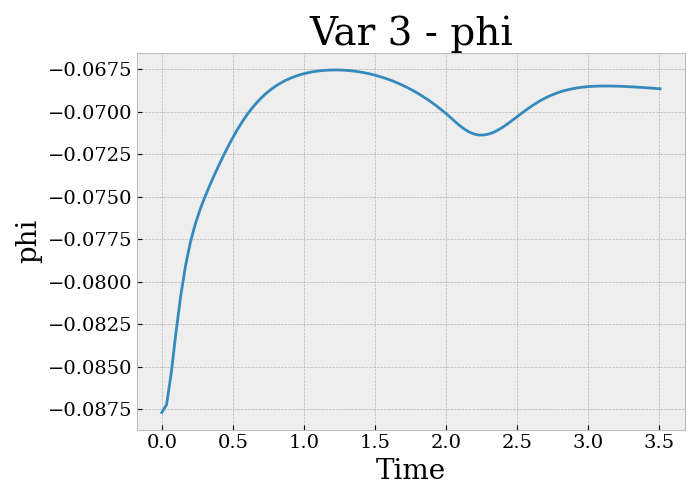
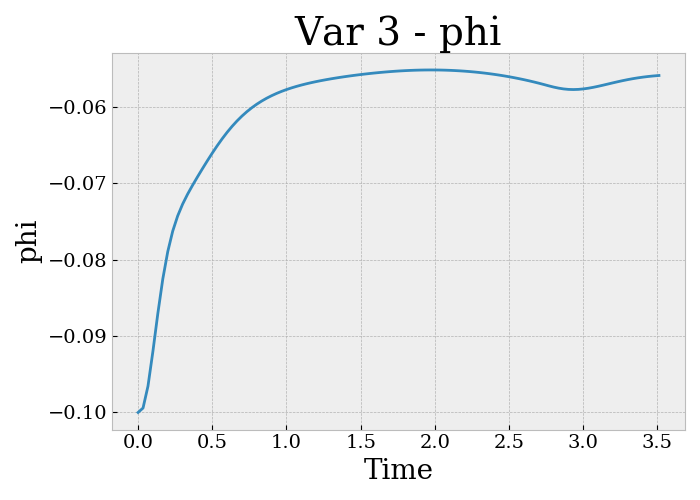
added files and generate script

diff --git a/gcas/spec_gcas.py b/gcas/spec_gcas.py
@@ -77,7 +77,7 @@ def main():
     scaling_dict = get_scaling()
 
     #trange = (0, 106 * 1/30)
-    trange = (105 * 1/30, 105 * 1/30 + 1e-4)
+    trange = (0, 105 * 1/30)
 
     if False:
 
@@ -85,7 +85,7 @@ def main():
         alpha = deg2rad(2.1215)
         beta = 0
 
-        phi = -pi/8           # Roll angle from wings level (rad)
+        phi = -0.5996 #-pi/8           # Roll angle from wings level (rad)
         #theta = (-math.pi/2)*0.3         # Pitch angle from nose level (rad)
         theta = 0         # Pitch angle from nose level (rad)
         psi = 0   # Yaw angle from North (rad)
@@ -94,7 +94,7 @@ def main():
         Q = 0
         R = 0
 
-        Pn  = 0
+        Pn = 0
         Pe = 0
 
         alt = 1200
@@ -105,19 +105,25 @@ def main():
         tuples_list = [(x, x) for x in pt] + [trange]
     else:
         # yue paper init set
-        tuples_list = [(560.0040, 599.9999),
-            (0.0750, 0.1000),
+        tuples_list = [(560.0040, 599.9999), # vt
+            (0.0750, 0.1000), # alpha
+            (-0.0100, 0.0100), # beta
+            (-0.1000, -0.0750), # phi (roll angle)
+                       
+            #(-0.9996, -0.5000), # theta!
+            (-0.88, 0), # theta!
+                       
             (-0.0100, 0.0100),
-            (-0.1000, -0.0750),
-            (-0.9996, -0.5000),
             (-0.0100, 0.0100),
             (-0.0100, 0.0100),
             (-0.0100, 0.0100),
             (-0.0100, 0.0100),
             (-0.0100, 0.0100),
-            (-0.0100, 0.0100),
-            (1150.0081, 1199.9975),
-            (0.0002, 0.9998),
+                       
+            #(1150.0081, 1199.9975), # alt
+            (1100, 1200), # alt
+                       
+            (0.0002, 0.9998), # pow
             trange]
 
     # scale input
@@ -128,6 +134,8 @@ def main():
         tuples_list[i] = (lb, ub)
     
     init_box = np.array(tuples_list, dtype=float)
+
+    print(f"scaled init box: {init_box}")
     #init_box = np.array([[0.9, 1.1], [0.9, 1.1], [0, 5.0]], dtype=float)
     #init_box = np.array([[-2.5, 2.5], [-2.5, 2.5], [0, 5.0]], dtype=float)
 
@@ -140,7 +148,7 @@ def main():
         network = load_onnx_network(onnx_filename)
 
     # spec, state is near the origin and probability is above a threshold
-    log_prob = -9999
+    log_prob = 0
 
     # rad 0.1, log_prob = 0.07
     # rad 0.2, log_prob 0.2
@@ -160,36 +168,33 @@ def main():
     for rhs_index, (i, x) in enumerate(zip(rhs_indices, rhs)):
         newx = (x - scaling_dict['out_means'][i]) / scaling_dict['out_stds'][i]
         rhs[rhs_index] = newx
-
-        print(f"rhs {x} -> {newx}")
         
     spec = Specification(mat, rhs)
     res = enumerate_network(init_box, network, spec)
 
     print(f"result in {res.total_secs} was: {res.result_str}")
 
-    print(f"rhs: {rhs}")
+    if res.result_str != 'safe':
+        ucinput = []
 
-    ucinput = []
+        if res.cinput:
+            for i, x in enumerate(res.cinput):
+                u = x * scaling_dict['in_stds'][i] + scaling_dict['in_means'][i]
+                ucinput.append(u)
 
-    if res.cinput:
-        for i, x in enumerate(res.cinput):
-            u = x * scaling_dict['in_stds'][i] + scaling_dict['in_means'][i]
-            ucinput.append(u)
+        print(f"\nunscaled cinput: {ucinput}")
 
-    print(f"\nunscaled cinput: {ucinput}")
-    
-    print(f"\ncinput: {res.cinput}")
-    print(f"\ncoutput: {res.coutput}")
+        print(f"\ncinput: {res.cinput}")
+        print(f"\ncoutput: {res.coutput}")
 
-    ucoutput = []
+        ucoutput = []
 
-    if res.coutput:
-        for i, x in enumerate(res.coutput):
-            u = x * scaling_dict['out_stds'][i] + scaling_dict['out_means'][i]
-            ucoutput.append(u)
+        if res.coutput:
+            for i, x in enumerate(res.coutput):
+                u = x * scaling_dict['out_stds'][i] + scaling_dict['out_means'][i]
+                ucoutput.append(u)
 
-    print(f"\nunscaled coutput: {ucoutput}")
+        print(f"\nunscaled coutput: {ucoutput}")
     
         
 if __name__ == "__main__":

diff --git a/gcas/run_GCAS.py b/gcas/run_GCAS.py
@@ -35,6 +35,10 @@ def main():
     # Build Initial Condition Vectors
     # state = [vt, alpha, beta, phi, theta, psi, P, Q, R, pn, pe, h, pow]
     init = [vt, alpha, beta, phi, theta, psi, 0, 0, 0, 0, 0, alt, power]
+
+    print("!! init override !!")
+    init = [560.004, 0.075, -0.008766038321942879, -0.1, -0.5996, -0.01, -0.01, -0.01, -0.008571254908063456, -0.01, -0.01, 1150.0081, 0.00019999999999997797]
+    
     tmax = 3.51 # simulation time
 
     ap = GcasAutopilot(init_mode='roll', stdout=True, gain_str='old')
@@ -54,6 +58,29 @@ def main():
         plt.clf()
         
         print(f"Made {filename}")
+
+    plt.clf()
+    plot.plot_single(res, 'alt', title='Altitude (ft)')
+    filename = 'alt.png'
+    plt.savefig(filename)
+    print(f"Made {filename}")
+
+    plot.plot_attitude(res)
+    filename = 'attitude.png'
+    plt.savefig(filename)
+    print(f"Made {filename}")
+
+    # plot inner loop controls + references
+    plot.plot_inner_loop(res)
+    filename = 'inner_loop.png'
+    plt.savefig(filename)
+    print(f"Made {filename}")
+
+    # plot outer loop controls + references
+    plot.plot_outer_loop(res)
+    filename = 'outer_loop.png'
+    plt.savefig(filename)
+    print(f"Made {filename}")
 
 if __name__ == '__main__':
     main()

diff --git a/gcas/run_onnx_gcas.py b/gcas/run_onnx_gcas.py
@@ -85,7 +85,10 @@ def main():
     pt = [vt, alpha, beta, phi, theta, psi, P, Q, R, Pn, Pe, alt, power]
     num_inputs = len(pt)
 
-    state = np.array([pt], dtype=float)
+    print("!!! override pt !!!")
+    pt = [599.9999, 0.075, -0.01, -0.08820618284362454, -0.5996,
+          #0.01, 0.01, 0.01, -0.01, -0.01, -0.01, 1150.0081, 0.9998]
+          0.01, 0.01, 0.01, -0.01, -0.01, -0.01, 1150.0081, 0.9998]
 
     dt = 1/30
     steps = 106
@@ -139,7 +142,12 @@ def main():
 
         plt.plot(xs, ys, 'b-', 0.2)
 
+        lb = min(ys)
+        ub = max(ys)
+        plt.ylim(lb, ub) 
+
         plt.title(f"GCAS network prediction {statenames[output_var]}")
+
         plt.savefig(f'gcas_predict{output_var}_{statenames[output_var]}.png')
 
         plt.clf()

diff --git a/README.md b/README.md
@@ -26,3 +26,20 @@ log_prob between 0.05 and 0.3
     
 ## GCAS
 
+theta in range (tmax, 0)
+
+with tmax between -1 and -0.5
+
+varscale 
+
+(-0.0100, 0.0100),
+
+easy, *2 medium, *10 hard
+
+## overall
+
+2 hours for vdp
+2 hours for robot
+2 hours for gcas
+
+12 benchmarks each with 10 minute timeout?
